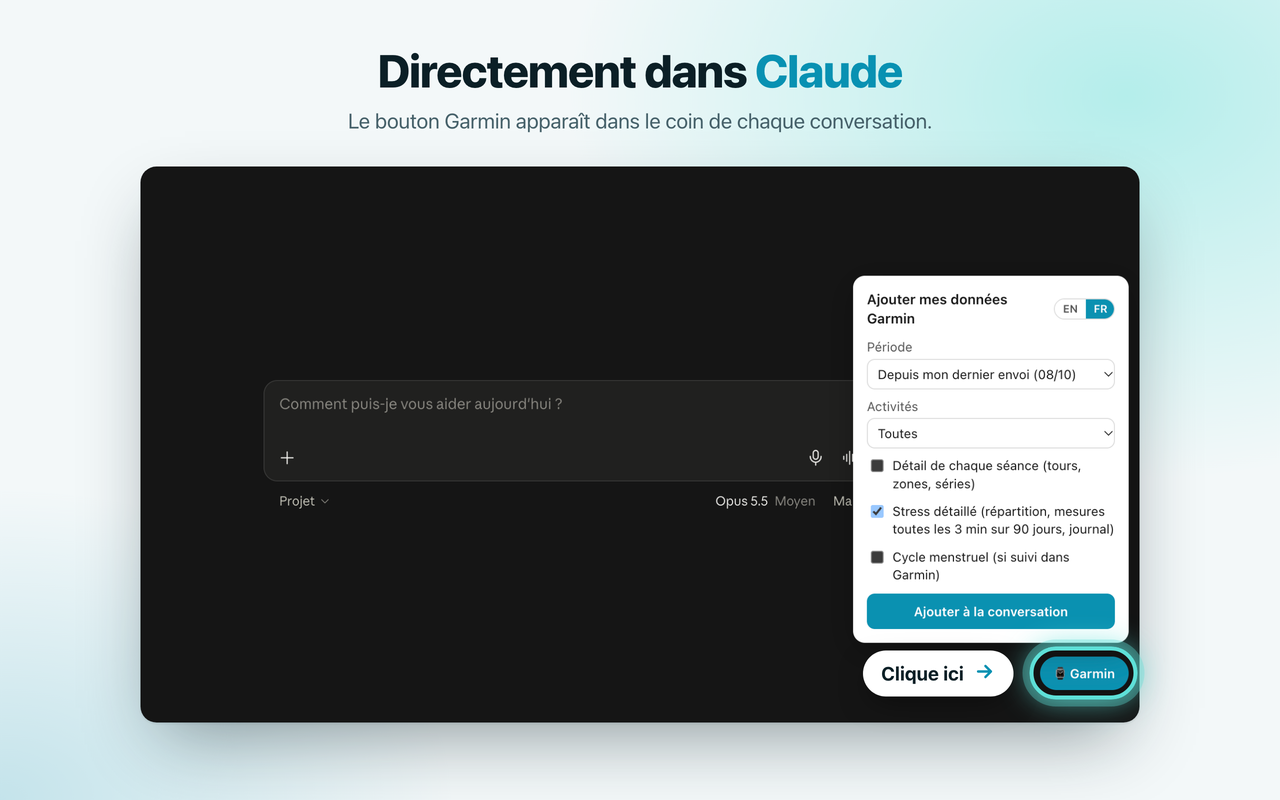
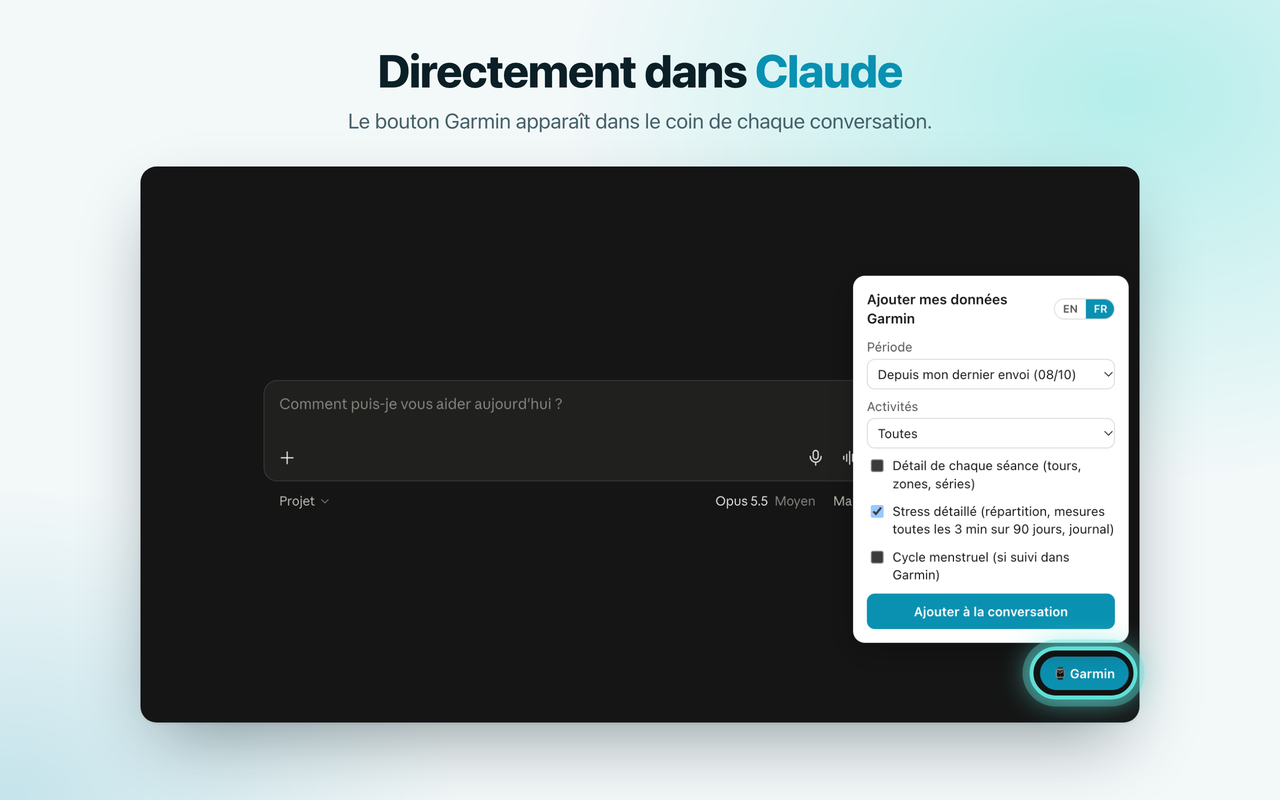
Captures du Store : retire la bulle « Click here »

Changed region(s): [[0.6562, 0.8125, 0.8125, 0.875]]

diff --git a/store/make_store_images.py b/store/make_store_images.py
@@ -26,7 +26,6 @@ TEXT = {
             "claude": ("Right inside <em>Claude</em>", "The Garmin button appears in the corner of every chat."),
             "chatgpt": ("And inside <em>ChatGPT</em>", "Same button, same file, one click."),
         },
-        "click": "Click here",
         "tagline": "Your Garmin stats in Claude and ChatGPT, in one click. 100% local.",
         "free": "Free Chrome extension",
         "hero_title": "Your Garmin stats, <em>right in your AI chat</em>",
@@ -76,7 +75,6 @@ TEXT = {
             "claude": ("Directement dans <em>Claude</em>", "Le bouton Garmin apparaît dans le coin de chaque conversation."),
             "chatgpt": ("Et dans <em>ChatGPT</em>", "Même bouton, même fichier, en un clic."),
         },
-        "click": "Clique ici",
         "tagline": "Tes stats Garmin dans Claude et ChatGPT, en un clic. 100 % local.",
         "free": "Extension Chrome gratuite",
         "hero_title": "Tes stats Garmin, <em>directement dans ton chat IA</em>",
@@ -229,7 +227,6 @@ def site_shot(site: str, lang: str) -> str:
     x0, y0, x1, y1 = (round(v * scale) for v in FAB[f"{site}-{lang}"])
     pad = 10
     ring = f"left:{x0 - pad}px;top:{y0 - pad}px;width:{x1 - x0 + 2 * pad}px;height:{y1 - y0 + 2 * pad}px"
-    label = f"right:{w - x0 + 26}px;top:{(y0 + y1) // 2 - 22}px"
     return page(1280, 800, f"""
 <div style="display:flex;flex-direction:column;align-items:center;height:100%;padding-top:46px">
   <h1 style="margin:0 0 10px;font-size:46px;text-align:center">{heading}</h1>
@@ -239,9 +236,6 @@ def site_shot(site: str, lang: str) -> str:
     <img src="{src.as_uri()}" style="display:block;width:{w}px;height:{h}px;border-radius:16px">
     <div style="position:absolute;{ring};border-radius:999px;border:4px solid #5ee0d8;
       box-shadow:0 0 0 7px rgba(94,224,216,.35),0 0 30px rgba(94,224,216,.8)"></div>
-    <div style="position:absolute;{label};display:flex;align-items:center;gap:10px;padding:10px 18px;border-radius:999px;
-      background:#fff;font-size:19px;font-weight:700;color:#0b1f26;box-shadow:0 10px 30px -8px rgba(0,0,0,.5)">
-      {html.escape(T["click"])}<span style="color:#0891b2">{icon("arrow", 22, width=2.6)}</span></div>
   </div>
 </div>""")
 
